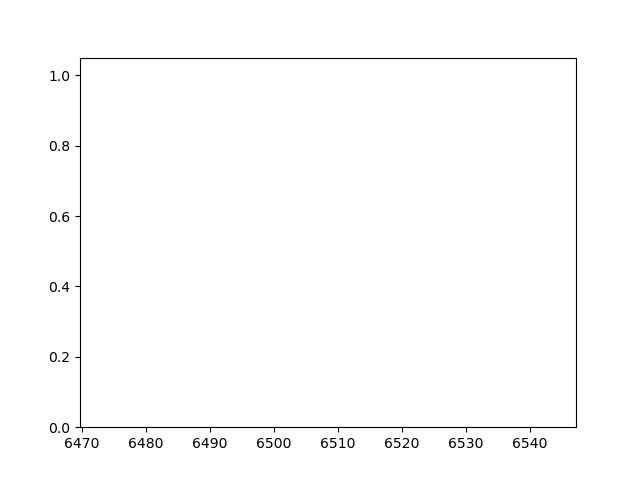
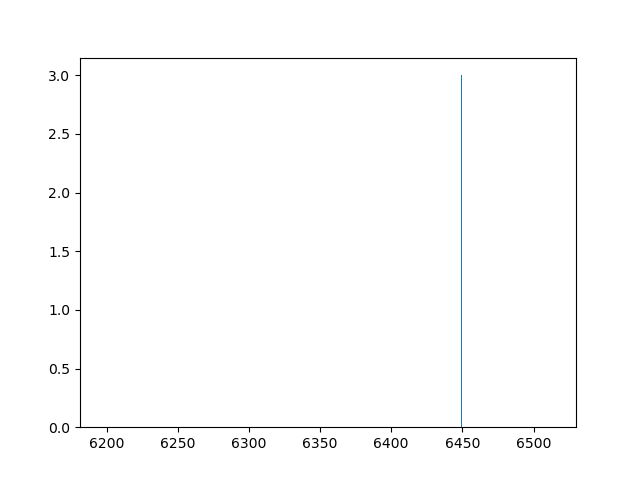
final changes

diff --git a/Code/experiments/hillclimber_exp.py b/Code/experiments/hillclimber_exp.py
@@ -29,7 +29,7 @@ def run_experiment():
     best_network= None
     previous_score = 0
 
-    for x in range(2):
+    for x in range(10):
         print(f' current run: {count}')
         random_algo = Random_algo(network)
         test_network = random_algo.create_network()
@@ -43,7 +43,7 @@ def run_experiment():
         count += 1
         count_list.append(count)
         previous_score = score
-        
+    
 
     plt.hist(hillclimber_list, bins = 1000)
     plt.savefig('data/hill_histogram.png')

diff --git a/main.py b/main.py
@@ -83,7 +83,7 @@ if __name__ == "__main__":
             greedy_exp.run_experiment()
         elif experiment == 'evolution':
             evol_exp.run_experiment()
-        elif: experiment == 'hillclimber':
+        elif experiment == 'hillclimber':
             hill_exp.run_experiment()
             
         exit()

diff --git a/README.md b/README.md
@@ -121,7 +121,7 @@ To run the code, 5 input arguments are required:
 All arguments are set to default setting. Manual changes can be made, for example by entering:
 
 ```
-python main.py -sn random -algo hillclimber
+python main.py -sn random -algo evolution
 ```
 
 All default settings and options per argument can be accessed by entering:
